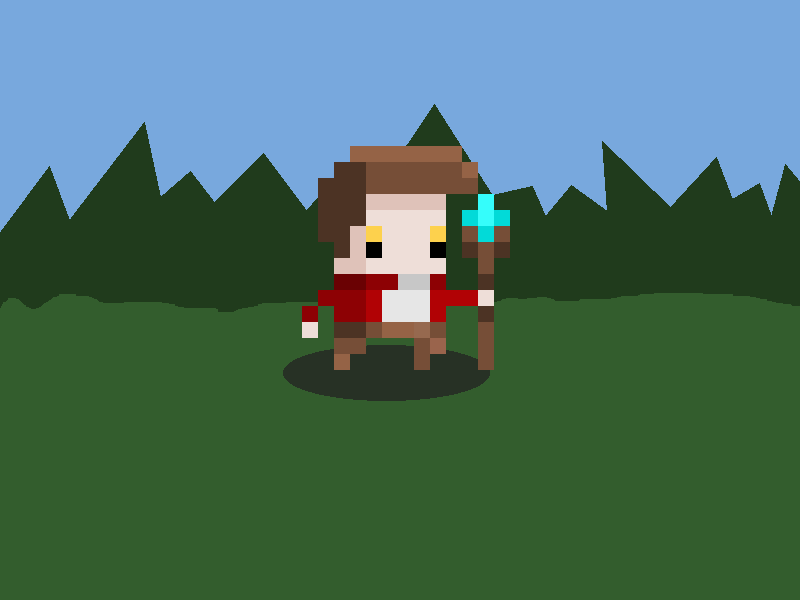
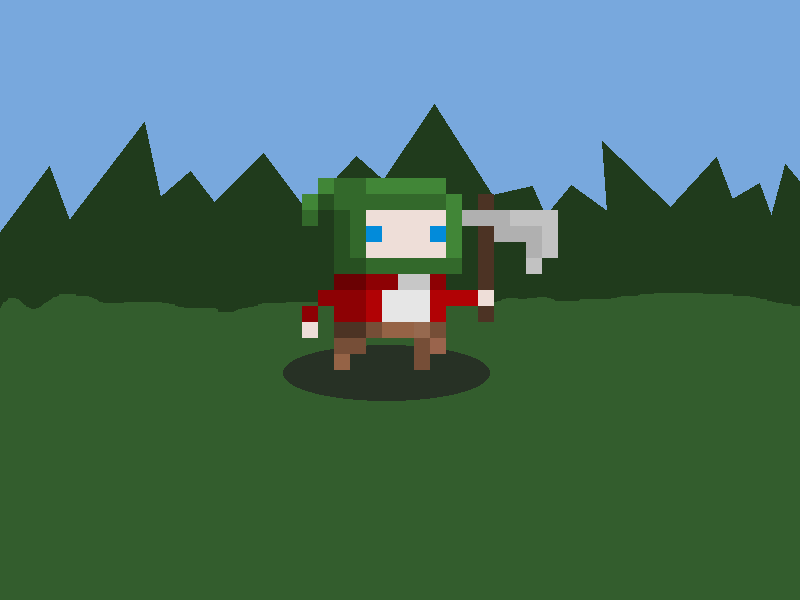
Lesson 24 - Completed

Changed region(s): [[0.375, 0.24, 0.7188, 0.48], [0.5938, 0.54, 0.625, 0.63]]

diff --git a/Lessons/24/To Do/projekt.py b/Lessons/24/To Do/projekt.py
@@ -10,3 +10,33 @@ os.chdir(os.path.dirname(os.path.abspath(__file__)))
 # Utworzenie stałych
 SZEROKOSC_EKRANU = 800
 WYSOKOSC_EKRANU = 600
+
+obraz_tla = pygame.image.load("images/background.png")
+obraz_bazy_postaci = pygame.image.load("images/base.png")
+
+pygame.init()
+
+ekran = pygame.display.set_mode([SZEROKOSC_EKRANU, WYSOKOSC_EKRANU])
+zegar = pygame.time.Clock()
+
+gra_dziala = True
+
+while gra_dziala:
+    # Obsługa zdarzeń
+    for zdarzenie in pygame.event.get():
+        if zdarzenie.type == pygame.KEYDOWN:
+            if zdarzenie.key == pygame.K_ESCAPE:
+                gra_dziala = False
+        elif zdarzenie.type == pygame.QUIT:
+            gra_dziala = False
+
+    # Rysowanie
+    ekran.blit(obraz_tla, (0, 0))
+    ekran.blit(obraz_bazy_postaci, (270, 130))
+    
+    pygame.display.flip()
+
+    zegar.tick(30)
+        
+
+pygame.quit()

diff --git a/Lessons/24/To Do/Element.py b/Lessons/24/To Do/Element.py
@@ -1,0 +1,26 @@
+import pygame
+
+class Obraz(pygame.sprite.Sprite):
+    def __init__(self, sciezka):
+        super().__init__()
+        self.obraz = pygame.image.load(sciezka)
+
+class Element():
+    def __init__(self, typ):
+        self.wybrany = 0
+        self.lista_obrazow = []
+
+        for i in range(1, 4):
+            sciezka = f"images/{typ}{i}.png"
+            wczytany_obraz = Obraz(sciezka)
+            self.lista_obrazow.append(wczytany_obraz)
+    
+    def wybierzNastepny(self):
+        self.wybrany += 1
+        if self.wybrany >= len(self.lista_obrazow):
+            self.wybrany = 0
+
+    def wybranyObraz(self):
+        return self.lista_obrazow[self.wybranyObraz].obraz
+    
+# TODO Stworzyć klasy NakrycieGlowy itd.
